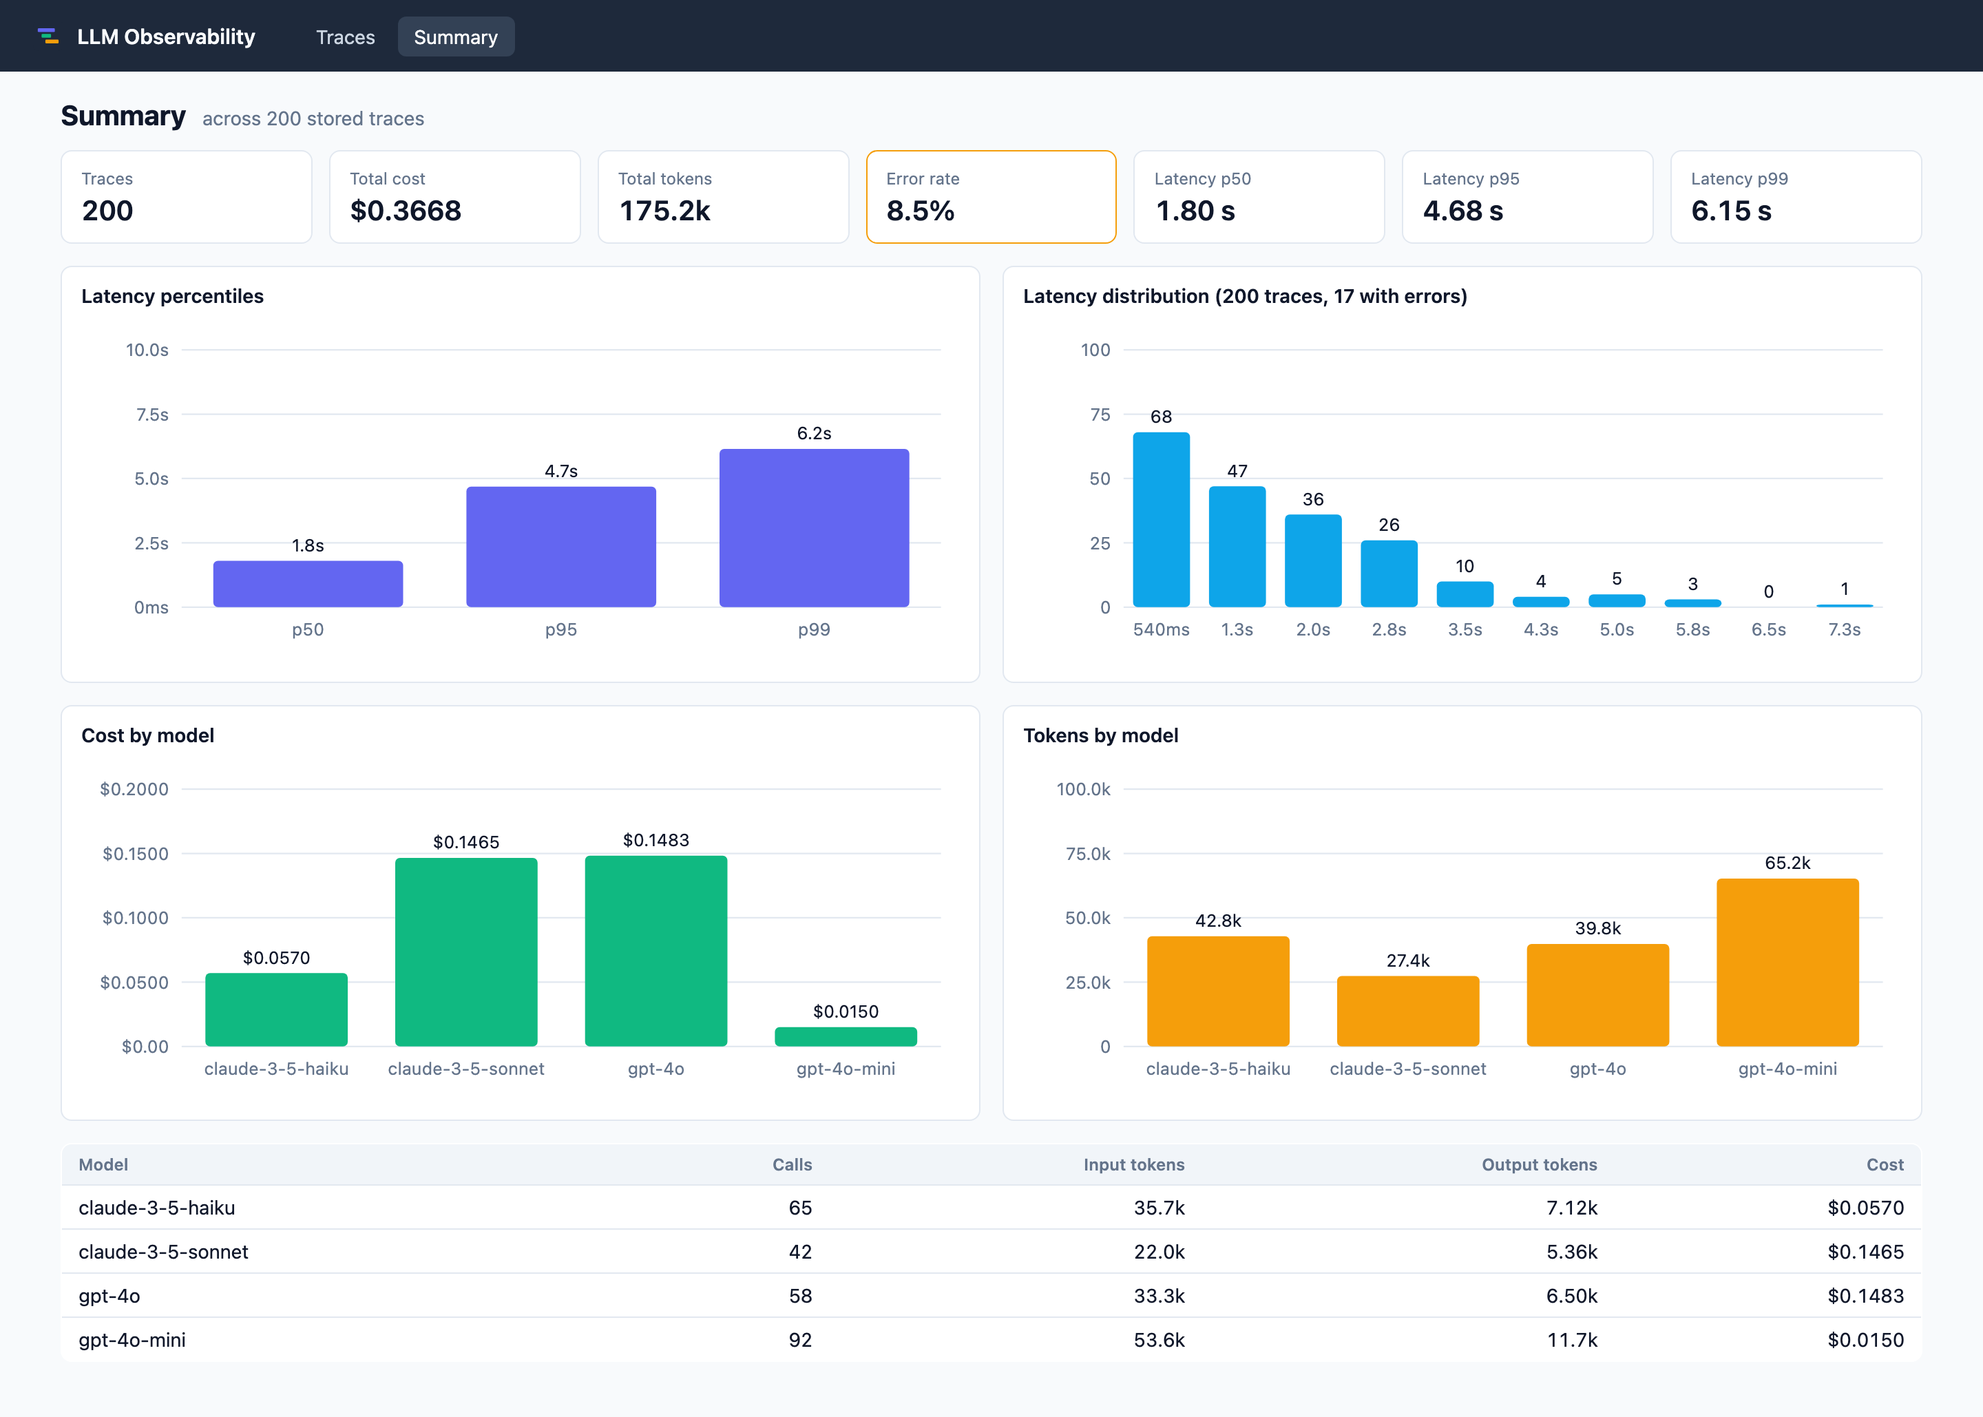
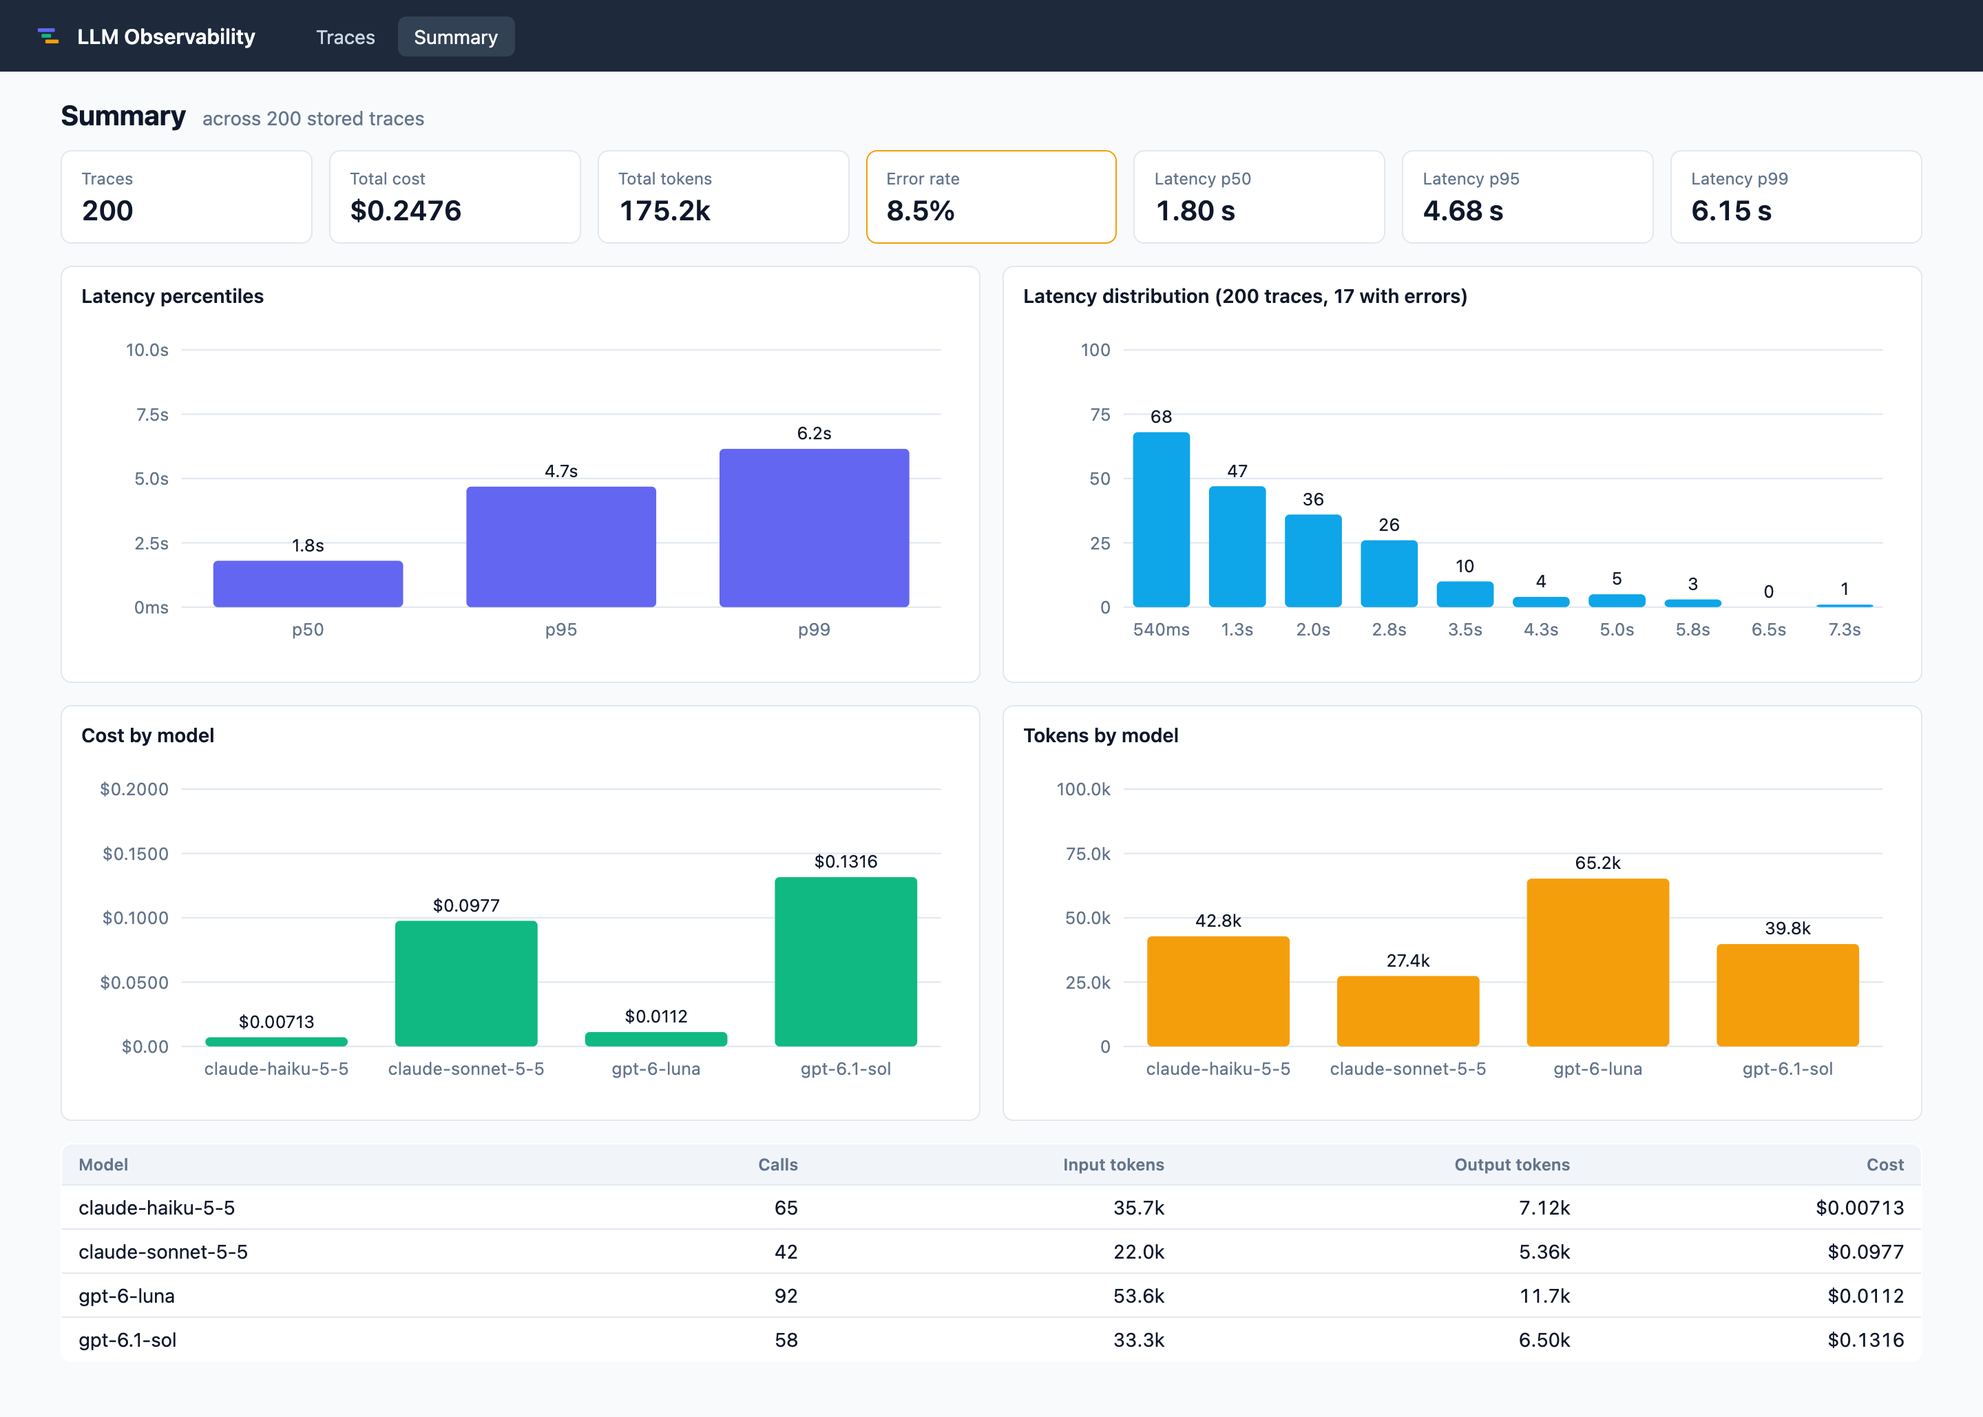
fix: current OpenAI and Claude models and prices in the default price list, with re-recorded demos and dashboard screenshots (#8)

diff --git a/web/test/api.test.ts b/web/test/api.test.ts
@@ -15,7 +15,7 @@ const row = {
   start_time: 1793000000.5,
   duration_ms: 1234.5,
   status: "error",
-  models: ["gpt-4o"],
+  models: ["gpt-6.1-sol"],
   span_count: 4,
   llm_calls: 2,
   input_tokens: 800,
@@ -33,7 +33,7 @@ const rawSpan = {
   start_time: 1793000000.6,
   end_time: 1793000001.1,
   status: "error",
-  attributes: { "llm.model": "gpt-4o", "llm.input_tokens": 400, nested: { a: 1 } },
+  attributes: { "llm.model": "gpt-6.1-sol", "llm.input_tokens": 400, nested: { a: 1 } },
   events: [{ timestamp: 1793000001.1, name: "exception", attributes: { type: "timeout" } }],
 };
 
@@ -45,7 +45,7 @@ const summary = {
   latency_p50_ms: 900,
   latency_p95_ms: 1500,
   latency_p99_ms: 1600,
-  by_model: [{ model: "gpt-4o", calls: 3, input_tokens: 1500, output_tokens: 500, cost_usd: 0.01 }],
+  by_model: [{ model: "gpt-6.1-sol", calls: 3, input_tokens: 1500, output_tokens: 500, cost_usd: 0.01 }],
 };
 
 function jsonResponse(body: unknown, status = 200): Response {
@@ -92,7 +92,7 @@ describe("parsers", () => {
     const parsed = parseSummary(summary);
     expect(parsed.latencyP95Ms).toBe(1500);
     expect(parsed.byModel[0]).toEqual({
-      model: "gpt-4o",
+      model: "gpt-6.1-sol",
       calls: 3,
       inputTokens: 1500,
       outputTokens: 500,
@@ -121,8 +121,8 @@ describe("traceQuery", () => {
   });
 
   it("encodes every filter and the limit", () => {
-    expect(traceQuery({ status: "error", model: "gpt-4o mini", minLatencyMs: 500 }, 50)).toBe(
-      "?status=error&model=gpt-4o+mini&min_latency_ms=500&limit=50",
+    expect(traceQuery({ status: "error", model: "gpt-6.1-sol mini", minLatencyMs: 500 }, 50)).toBe(
+      "?status=error&model=gpt-6.1-sol+mini&min_latency_ms=500&limit=50",
     );
   });
 });

diff --git a/web/test/format.test.ts b/web/test/format.test.ts
@@ -55,7 +55,7 @@ describe("number formatting", () => {
     expect(formatAttribute(true)).toBe("true");
     expect(formatAttribute(42)).toBe("42");
     expect(formatAttribute(0.1 + 0.2)).toBe("0.3");
-    expect(formatAttribute("gpt-4o")).toBe("gpt-4o");
+    expect(formatAttribute("gpt-6.1-sol")).toBe("gpt-6.1-sol");
   });
 });
 
@@ -63,14 +63,14 @@ describe("span helpers", () => {
   it("extracts LLM call details", () => {
     const call = span("c", null, 0, 1, {
       attributes: {
-        "llm.model": "gpt-4o",
+        "llm.model": "gpt-6.1-sol",
         "llm.input_tokens": 400,
         "llm.output_tokens": 60,
         "llm.cost_usd": 0.0016,
       },
     });
     expect(llmDetails(call)).toEqual({
-      model: "gpt-4o",
+      model: "gpt-6.1-sol",
       inputTokens: 400,
       outputTokens: 60,
       totalTokens: 460,

diff --git a/web/test/router-stats.test.ts b/web/test/router-stats.test.ts
@@ -5,9 +5,9 @@ import { barGeometry, histogram, niceMax, percentile } from "../src/stats";
 describe("router", () => {
   it.each<[string, Route]>([
     ["", { page: "traces", filters: {} }],
-    ["#/traces?status=error&model=gpt-4o&min_latency_ms=250", {
+    ["#/traces?status=error&model=gpt-6.1-sol&min_latency_ms=250", {
       page: "traces",
-      filters: { status: "error", model: "gpt-4o", minLatencyMs: 250 },
+      filters: { status: "error", model: "gpt-6.1-sol", minLatencyMs: 250 },
     }],
     ["#/trace/trace%2F1", { page: "trace", traceId: "trace/1" }],
     ["#/summary", { page: "summary" }],

diff --git a/tests/test_store_api.py b/tests/test_store_api.py
@@ -40,9 +40,9 @@ def _service() -> ObservabilityService:
     service = ObservabilityService()
     service.store.extend(
         [
-            _trace("t1", model="gpt-4o", latency_ms=300.0, error=False, start=100.0),
-            _trace("t2", model="gpt-4o-mini", latency_ms=1200.0, error=True, start=200.0),
-            _trace("t3", model="gpt-4o", latency_ms=800.0, error=False, start=300.0),
+            _trace("t1", model="gpt-6.1-sol", latency_ms=300.0, error=False, start=100.0),
+            _trace("t2", model="gpt-6-luna", latency_ms=1200.0, error=True, start=200.0),
+            _trace("t3", model="gpt-6.1-sol", latency_ms=800.0, error=False, start=300.0),
         ]
     )
     return service
@@ -50,10 +50,10 @@ def _service() -> ObservabilityService:
 
 def test_store_evicts_oldest_and_replaces() -> None:
     store = TraceStore(max_traces=2)
-    store.add(_trace("a", model="gpt-4o", latency_ms=1, error=False, start=0))
-    store.add(_trace("b", model="gpt-4o", latency_ms=1, error=False, start=1))
-    store.add(_trace("a", model="gpt-4o", latency_ms=5, error=False, start=2))
-    store.add(_trace("c", model="gpt-4o", latency_ms=1, error=False, start=3))
+    store.add(_trace("a", model="gpt-6.1-sol", latency_ms=1, error=False, start=0))
+    store.add(_trace("b", model="gpt-6.1-sol", latency_ms=1, error=False, start=1))
+    store.add(_trace("a", model="gpt-6.1-sol", latency_ms=5, error=False, start=2))
+    store.add(_trace("c", model="gpt-6.1-sol", latency_ms=1, error=False, start=3))
     assert len(store) == 2
     assert store.get("b") is None
     assert store.get("a") is not None
@@ -69,7 +69,7 @@ def test_list_traces_newest_first_with_summary_fields() -> None:
     assert ids == ["t3", "t2", "t1"]
     row = payload["traces"][1]
     assert row["status"] == "error"
-    assert row["models"] == ["gpt-4o-mini"]
+    assert row["models"] == ["gpt-6-luna"]
     assert row["name"] == "agent.run"
     assert row["duration_ms"] == pytest.approx(1200.0)
     assert row["total_tokens"] == 140
@@ -82,9 +82,9 @@ def test_list_traces_newest_first_with_summary_fields() -> None:
     [
         ("?status=error", ["t2"]),
         ("?status=ok", ["t3", "t1"]),
-        ("?model=gpt-4o", ["t3", "t1"]),
+        ("?model=gpt-6.1-sol", ["t3", "t1"]),
         ("?min_latency_ms=500", ["t3", "t2"]),
-        ("?status=ok&min_latency_ms=500&model=gpt-4o", ["t3"]),
+        ("?status=ok&min_latency_ms=500&model=gpt-6.1-sol", ["t3"]),
         ("?limit=1", ["t3"]),
         ("?status=&model=", ["t3", "t2", "t1"]),
     ],
@@ -113,7 +113,7 @@ def test_get_trace_detail_and_missing() -> None:
     llm = next(span for span in payload["spans"] if span["name"] == "llm.call")
     assert llm["parent_id"] == "t2-root"
     assert llm["status"] == "error"
-    assert llm["attributes"]["llm.model"] == "gpt-4o-mini"
+    assert llm["attributes"]["llm.model"] == "gpt-6-luna"
     status, payload = handle("GET", "/api/traces/nope", {}, service)
     assert status == 404
 
@@ -127,8 +127,8 @@ def test_summary_endpoint() -> None:
     assert payload["latency_p50_ms"] == pytest.approx(800.0)
     assert payload["latency_p99_ms"] >= payload["latency_p95_ms"] >= payload["latency_p50_ms"]
     models = {entry["model"]: entry for entry in payload["by_model"]}
-    assert models["gpt-4o"]["calls"] == 2
-    assert models["gpt-4o-mini"]["output_tokens"] == 40
+    assert models["gpt-6.1-sol"]["calls"] == 2
+    assert models["gpt-6-luna"]["output_tokens"] == 40
 
 
 def test_summary_of_empty_store() -> None:

diff --git a/tests/test_cost_metrics.py b/tests/test_cost_metrics.py
@@ -27,8 +27,8 @@ def test_model_price_rejects_negative() -> None:
 
 def test_price_list_known_and_unknown() -> None:
     prices = PriceList()
-    assert "gpt-4o" in prices
-    assert prices.estimate_cost("gpt-4o", 1000, 1000) > 0.0
+    assert "gpt-6.1-sol" in prices
+    assert prices.estimate_cost("gpt-6.1-sol", 1000, 1000) > 0.0
     assert prices.estimate_cost("unknown-model", 1000, 1000) == 0.0
 
 
@@ -38,7 +38,7 @@ def test_price_list_custom() -> None:
 
 
 def test_default_prices_present() -> None:
-    assert "claude-3-5-sonnet" in DEFAULT_PRICES
+    assert "claude-sonnet-5-5" in DEFAULT_PRICES
 
 
 # --------------------------------------------------------------------------- #
@@ -48,9 +48,9 @@ def test_aggregate_metrics_sums_llm_calls() -> None:
     tracer = Tracer(clock=itertools.count())
     with tracer.span("agent.run"):
         with tracer.span("llm.call") as s1:
-            record_llm_call(s1, model="gpt-4o", input_tokens=1000, output_tokens=500)
+            record_llm_call(s1, model="gpt-6.1-sol", input_tokens=1000, output_tokens=500)
         with tracer.span("llm.call") as s2:
-            record_llm_call(s2, model="gpt-4o", input_tokens=2000, output_tokens=800)
+            record_llm_call(s2, model="gpt-6.1-sol", input_tokens=2000, output_tokens=800)
 
     metrics = aggregate_metrics(tracer.traces()[0])
     assert metrics.llm_calls == 2
@@ -72,13 +72,13 @@ def test_aggregate_metrics_counts_errors() -> None:
 def test_record_llm_call_rejects_negative_tokens() -> None:
     tracer = Tracer(clock=itertools.count())
     with tracer.span("llm.call") as span, pytest.raises(ValueError, match="non-negative"):
-        record_llm_call(span, model="gpt-4o", input_tokens=-1, output_tokens=0)
+        record_llm_call(span, model="gpt-6.1-sol", input_tokens=-1, output_tokens=0)
 
 
 def test_metrics_format() -> None:
     tracer = Tracer(clock=itertools.count())
     with tracer.span("llm.call") as span:
-        record_llm_call(span, model="gpt-4o-mini", input_tokens=100, output_tokens=50)
+        record_llm_call(span, model="gpt-6-luna", input_tokens=100, output_tokens=50)
     text = aggregate_metrics(tracer.traces()[0]).format()
     assert "1 calls" in text
     assert "150 tokens" in text

diff --git a/tests/test_service.py b/tests/test_service.py
@@ -6,15 +6,15 @@ from llm_observability.service import ObservabilityService, handle
 
 _SERVICE = ObservabilityService()
 _CALLS = [
-    {"model": "gpt-4o", "input_tokens": 100, "output_tokens": 50, "latency_ms": 200.0},
+    {"model": "gpt-6.1-sol", "input_tokens": 100, "output_tokens": 50, "latency_ms": 200.0},
     {
-        "model": "gpt-4o",
+        "model": "gpt-6.1-sol",
         "input_tokens": 200,
         "output_tokens": 80,
         "latency_ms": 900.0,
         "error": True,
     },
-    {"model": "gpt-4o-mini", "input_tokens": 50, "output_tokens": 20, "latency_ms": 120.0},
+    {"model": "gpt-6-luna", "input_tokens": 50, "output_tokens": 20, "latency_ms": 120.0},
 ]
 
 
@@ -22,7 +22,7 @@ def test_health() -> None:
     status, payload = handle("GET", "/health", {}, _SERVICE)
     assert status == 200
     assert payload["status"] == "ok"
-    assert "gpt-4o" in payload["models"]
+    assert "gpt-6.1-sol" in payload["models"]
 
 
 def test_summarize_metrics() -> None:
@@ -52,7 +52,7 @@ def test_summarize_rejects_empty_calls() -> None:
 
 
 def test_summarize_rejects_missing_fields() -> None:
-    status, _ = handle("POST", "/summarize", {"calls": [{"model": "gpt-4o"}]}, _SERVICE)
+    status, _ = handle("POST", "/summarize", {"calls": [{"model": "gpt-6.1-sol"}]}, _SERVICE)
     assert status == 400
 
 
@@ -80,7 +80,12 @@ def test_metrics_record_requests() -> None:
         "/summarize",
         {
             "calls": [
-                {"model": "gpt-4o", "input_tokens": 100, "output_tokens": 50, "latency_ms": 200.0}
+                {
+                    "model": "gpt-6.1-sol",
+                    "input_tokens": 100,
+                    "output_tokens": 50,
+                    "latency_ms": 200.0,
+                }
             ]
         },
         service,

diff --git a/src/llm_observability/demo.py b/src/llm_observability/demo.py
@@ -26,11 +26,11 @@ def simulated_agent_run() -> Tracer:
     tracer = Tracer(clock=itertools.count(step=5))
     with tracer.span("agent.run", question="What is 21 * 2 and the capital of France?"):
         with tracer.span("llm.call", step=1) as plan:
-            record_llm_call(plan, model="gpt-4o", input_tokens=320, output_tokens=48)
+            record_llm_call(plan, model="gpt-6.1-sol", input_tokens=320, output_tokens=48)
         with tracer.span("tool.exec", tool="calculator", input="21 * 2") as tool:
             tool.set_attribute("output", "42")
         with tracer.span("llm.call", step=2) as answer:
-            record_llm_call(answer, model="gpt-4o", input_tokens=410, output_tokens=64)
+            record_llm_call(answer, model="gpt-6.1-sol", input_tokens=410, output_tokens=64)
     return tracer
 
 
@@ -38,10 +38,10 @@ def simulated_agent_run() -> Tracer:
 
 _SAMPLE_EPOCH = 1_793_000_000.0
 _MS_PER_OUTPUT_TOKEN = {
-    "gpt-4o": 11.0,
-    "gpt-4o-mini": 6.0,
-    "claude-3-5-sonnet": 13.0,
-    "claude-3-5-haiku": 7.0,
+    "gpt-6.1-sol": 11.0,
+    "gpt-6-luna": 6.0,
+    "claude-sonnet-5-5": 13.0,
+    "claude-haiku-5-5": 7.0,
 }
 _TOOLS = ("web_search", "calculator", "sql_query", "weather_lookup")
 _ERROR_TYPES = ("rate_limit", "timeout", "invalid_request")

diff --git a/tests/test_exporters_analysis.py b/tests/test_exporters_analysis.py
@@ -26,7 +26,7 @@ def _llm_trace(latency: int, *, tokens: int = 1000, error: bool = False) -> Trac
         end_time=float(latency) / 1000.0,  # latency ms -> seconds
         status=SpanStatus.ERROR if error else SpanStatus.OK,
     )
-    record_llm_call(span, model="gpt-4o", input_tokens=tokens, output_tokens=tokens)
+    record_llm_call(span, model="gpt-6.1-sol", input_tokens=tokens, output_tokens=tokens)
     return Trace(span.trace_id, [span])
 
 
@@ -45,12 +45,12 @@ def test_render_tree_shows_nesting() -> None:
 def test_trace_json_round_trip() -> None:
     tracer = Tracer(clock=itertools.count())
     with tracer.span("agent.run"), tracer.span("llm.call") as span:
-        record_llm_call(span, model="gpt-4o", input_tokens=10, output_tokens=5)
+        record_llm_call(span, model="gpt-6.1-sol", input_tokens=10, output_tokens=5)
     original = tracer.traces()[0]
     restored = trace_from_json(trace_to_json(original))
     assert restored.trace_id == original.trace_id
     assert len(restored) == len(original)
-    assert restored.spans_named("llm.call")[0].attributes["llm.model"] == "gpt-4o"
+    assert restored.spans_named("llm.call")[0].attributes["llm.model"] == "gpt-6.1-sol"
 
 
 # --------------------------------------------------------------------------- #

diff --git a/tests/test_alerts_slo_search.py b/tests/test_alerts_slo_search.py
@@ -29,7 +29,7 @@ def _llm_trace(latency_ms: float, *, tokens: int = 1000, error: bool = False) ->
         end_time=latency_ms / 1000.0,
         status=SpanStatus.ERROR if error else SpanStatus.OK,
     )
-    record_llm_call(span, model="gpt-4o", input_tokens=tokens, output_tokens=tokens)
+    record_llm_call(span, model="gpt-6.1-sol", input_tokens=tokens, output_tokens=tokens)
     return Trace(span.trace_id, [span])
 
 
@@ -100,7 +100,7 @@ def _mixed_traces() -> list[Trace]:
     tracer = Tracer(clock=itertools.count(step=5))
     with tracer.span("agent.run"):
         with tracer.span("llm.call") as span:
-            record_llm_call(span, model="gpt-4o", input_tokens=10, output_tokens=5)
+            record_llm_call(span, model="gpt-6.1-sol", input_tokens=10, output_tokens=5)
         with tracer.span("tool.exec"):
             pass
     return tracer.traces()
@@ -118,7 +118,7 @@ def test_search_by_status() -> None:
 
 
 def test_search_by_attribute() -> None:
-    spans = search_spans(_mixed_traces(), attributes={"llm.model": "gpt-4o"})
+    spans = search_spans(_mixed_traces(), attributes={"llm.model": "gpt-6.1-sol"})
     assert len(spans) == 1
 
 

diff --git a/tests/test_core.py b/tests/test_core.py
@@ -30,8 +30,8 @@ def test_span_double_finish_raises() -> None:
 
 def test_span_attributes() -> None:
     span = Span(name="op", span_id="s1", trace_id="t1")
-    span.set_attribute("model", "gpt-4o")
-    assert span.attributes["model"] == "gpt-4o"
+    span.set_attribute("model", "gpt-6.1-sol")
+    assert span.attributes["model"] == "gpt-6.1-sol"
 
 
 def test_unfinished_span_zero_duration() -> None:
@@ -96,10 +96,10 @@ def test_separate_roots_are_separate_traces() -> None:
 
 def test_span_attributes_recorded_via_context() -> None:
     tracer = Tracer(clock=itertools.count())
-    with tracer.span("llm.call", model="gpt-4o") as span:
+    with tracer.span("llm.call", model="gpt-6.1-sol") as span:
         span.set_attribute("tokens", 128)
     finished = tracer.finished_spans[0]
-    assert finished.attributes["model"] == "gpt-4o"
+    assert finished.attributes["model"] == "gpt-6.1-sol"
     assert finished.attributes["tokens"] == 128
 
 

diff --git a/src/llm_observability/cost.py b/src/llm_observability/cost.py
@@ -28,13 +28,14 @@ class ModelPrice:
         ) / 1_000_000
 
 
-# Illustrative public prices (US dollars per million tokens). Injected, not authoritative;
-# update as provider pricing changes.
+# Public list prices (US dollars per million tokens, standard tier, short context) from the
+# OpenAI and Anthropic pricing pages on 2026-11-08. Injected, not authoritative; providers
+# change prices, so pass your own PriceList for real budgeting.
 DEFAULT_PRICES: dict[str, ModelPrice] = {
-    "gpt-4o": ModelPrice(2.50, 10.00),
-    "gpt-4o-mini": ModelPrice(0.15, 0.60),
-    "claude-3-5-sonnet": ModelPrice(3.00, 15.00),
-    "claude-3-5-haiku": ModelPrice(0.80, 4.00),
+    "gpt-6.1-sol": ModelPrice(2.00, 10.00),
+    "gpt-6-luna": ModelPrice(0.10, 0.50),
+    "claude-sonnet-5-5": ModelPrice(2.00, 10.00),
+    "claude-haiku-5-5": ModelPrice(0.10, 0.50),
 }
 
 

diff --git a/benchmarks/benchmark.py b/benchmarks/benchmark.py
@@ -31,7 +31,7 @@ def _bench_aggregation(num_traces: int) -> float:
     for _ in range(num_traces):
         tracer = Tracer()
         with tracer.span("agent.run"), tracer.span("llm.call") as span:
-            record_llm_call(span, model="gpt-4o", input_tokens=500, output_tokens=200)
+            record_llm_call(span, model="gpt-6.1-sol", input_tokens=500, output_tokens=200)
         traces.extend(tracer.traces())
     start = time.perf_counter()
     summarize_batch(traces)
